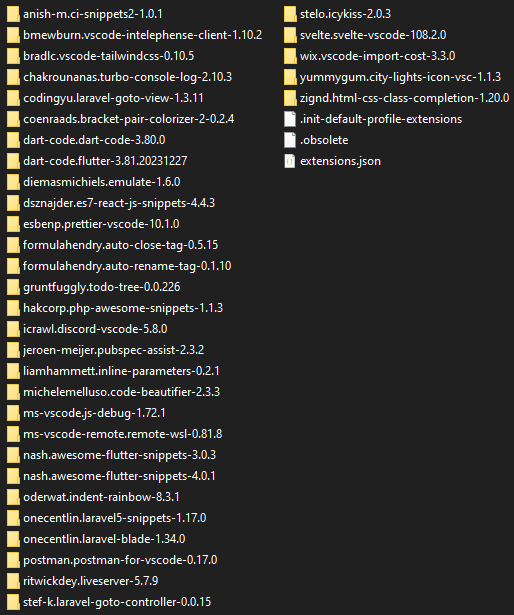
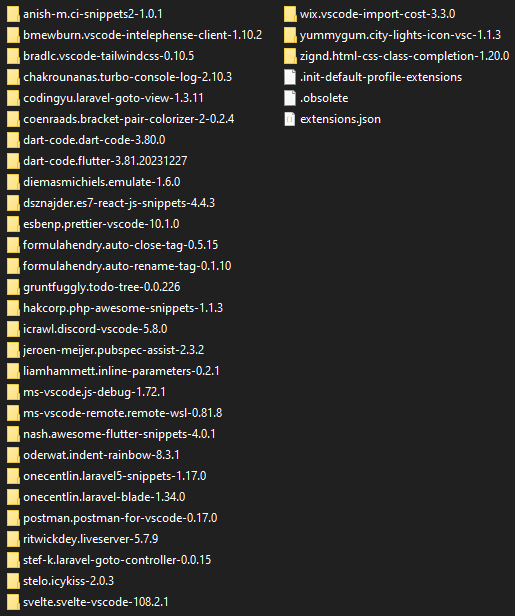
chore: update settings and extension

Changed region(s): [[0.0, 0.0, 0.4981, 0.9886], [0.5292, 0.0, 0.9961, 0.278], [0.0, 0.9886, 0.0311, 1.0]]

diff --git a/settings_2024.ts b/settings_2024.ts
@@ -40,8 +40,8 @@
     "editor.defaultFormatter": "onecentlin.laravel-blade",
     "editor.autoClosingBrackets": "always"
   },
-  "[css]": {
-    "editor.defaultFormatter": "michelemelluso.code-beautifier"
+  "[css, scss]": {
+    "editor.defaultFormatter": "esbenp.prettier-vscode"
   },
   "[svelte]": {
     "editor.defaultFormatter": "svelte.svelte-vscode"
@@ -85,5 +85,6 @@
     }
   },
   "terminal.integrated.defaultProfile.windows": "Ubuntu (WSL)",
-  "remote.WSL.fileWatcher.polling": true
+  "remote.WSL.fileWatcher.polling": true,
+  "security.allowedUNCHosts": ["wsl.localhost"]
 }
